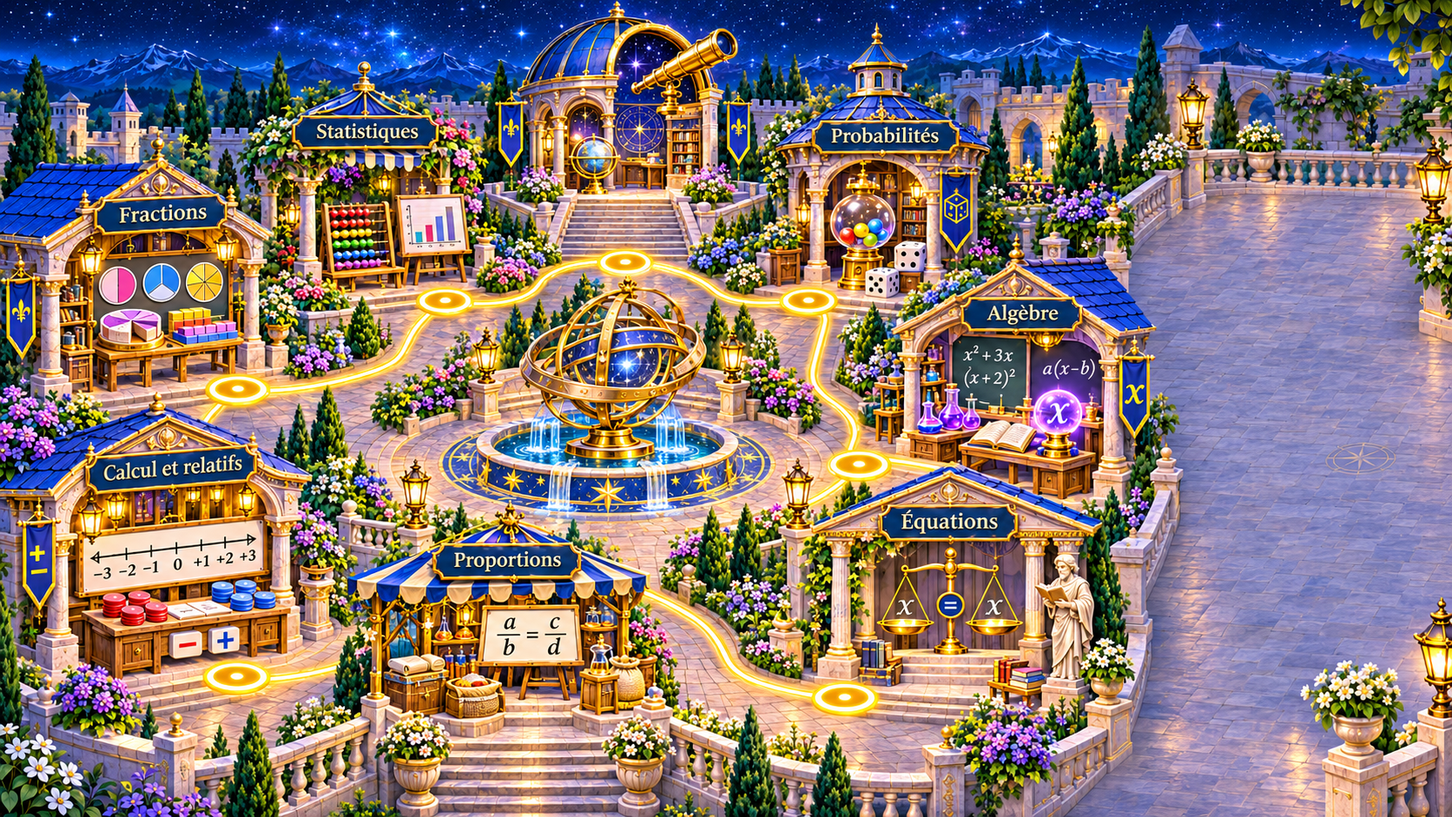
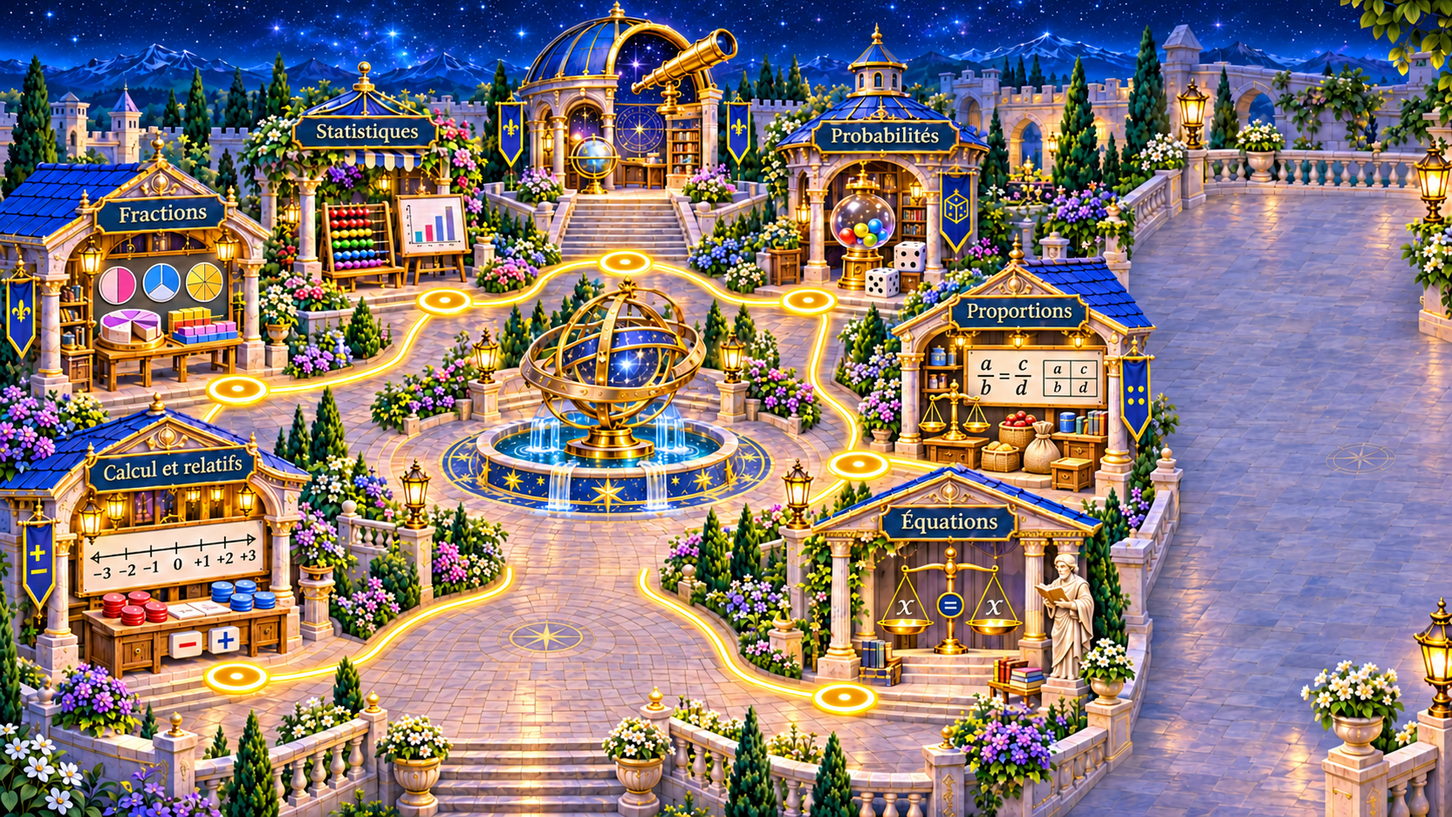
test: probabilités en 5, proportions en 6 et entrée dégagée (v0.3.58-test)

diff --git a/index.html b/index.html
@@ -4,7 +4,7 @@
   <meta charset="utf-8">
   <meta name="viewport" content="width=device-width, initial-scale=1">
   <meta name="theme-color" content="#111d31">
-  <title>Maths Quest — version 0.3.57-test — Bleu royal & or</title>
+  <title>Maths Quest — version 0.3.58-test — Bleu royal & or</title>
   <style>
     :root { font-family:system-ui,sans-serif; background:#101c2d; color:#eee6d4; color-scheme:dark; }
     * { box-sizing:border-box; }
@@ -203,7 +203,7 @@
 
 
     /* ====================================================================
-       v0.3.57-test - Thème retenu : Bleu royal, or et parchemin.
+       v0.3.58-test - Thème retenu : Bleu royal, or et parchemin.
        Toute la logique pédagogique 0.3 reste inchangée.
        ==================================================================== */
     .quiz-screen{
@@ -365,7 +365,7 @@
     @media(prefers-reduced-motion:reduce){.quiz-submit{transition:none}}
 
 
-    /* v0.3.57-test — Cartouche de défi à droite du héros. */
+    /* v0.3.58-test — Cartouche de défi à droite du héros. */
     .arrival{left:50.4%;top:27.7%;width:24.5%;max-width:360px;min-width:0;gap:clamp(3px,.5vw,8px);
       padding:clamp(5px,.72vw,12px);box-shadow:0 9px 23px #071c3bc7;}
     .arrival .arrival-heading{font-size:clamp(10px,.94vw,16px)}
@@ -373,7 +373,7 @@
     .arrival small{font-size:clamp(9px,.8vw,13px)}
     .arrival .arrival-action{font-size:clamp(10px,.95vw,16px);padding:clamp(6px,.65vw,12px)}
 
-    /* v0.3.57-test — Camp d'entrainement de face comme arrière-plan des exercices.
+    /* v0.3.58-test — Camp d'entrainement de face comme arrière-plan des exercices.
        L'interface d'Activités mentales reste indépendante de ce fond illustré. */
     .quiz-screen{
       background-image:linear-gradient(90deg,rgba(7,27,57,.47),rgba(10,34,63,.31) 50%,rgba(7,27,57,.47)),
@@ -417,7 +417,7 @@
 
 
     /* ================================================================
-       v0.3.57-test — adaptation à la HAUTEUR et à la LARGEUR de l'écran.
+       v0.3.58-test — adaptation à la HAUTEUR et à la LARGEUR de l'écran.
        Une question doit tenir dans la zone visible, bouton Valider inclus.
        Le bilan reste défilable car il contient les dix réponses.
        ================================================================ */
@@ -530,7 +530,7 @@
     }
 
 
-    /* v0.3.57-test — Écran de transition « Tables de multiplication ».
+    /* v0.3.58-test — Écran de transition « Tables de multiplication ».
        L'illustration est un décor, les zones actives sont de vrais boutons HTML. */
     .trial-transition[hidden] {display:none!important}
     .trial-transition {position:fixed;inset:0;z-index:55;display:flex;flex-direction:column;
@@ -575,7 +575,7 @@
     @media(min-width:701px){.oath{max-height:59%;overflow:auto}}
     .relative-intro{display:none!important}
     .transition-recap{left:68.1%;top:10.8%;width:20.8%;height:4%;background:#0b2541;font-size:clamp(8px,1.05vw,17px);border:0;box-shadow:none}
-    /* v0.3.57-test — Bilan ajusté à l'écran ; seul le détail des réponses défile. */
+    /* v0.3.58-test — Bilan ajusté à l'écran ; seul le détail des réponses défile. */
     .quiz-content:has(.quiz-results:not([hidden])) {
       display:flex;overflow:hidden;width:min(760px,calc(100% - 24px));
     }
@@ -901,7 +901,7 @@ body:has(dialog[open]) #appFullscreen{visibility:hidden}
 @media(max-width:640px){#appFullscreen{right:8px;bottom:8px;width:34px;height:34px;padding:7px}.brand-version{font-size:clamp(6px,1.5vw,10px)}}
 
 
-/* v0.3.57-test — Progression retirée des images sources, sans plaque de masquage. */
+/* v0.3.58-test — Progression retirée des images sources, sans plaque de masquage. */
 #scene,.transition-viewport{container-type:inline-size}
 .court-quests .court-quest-row{display:none!important}
 .court-quests .trial-groups{display:grid;height:68%;grid-auto-rows:minmax(0,1fr);grid-template-rows:none}
@@ -1092,7 +1092,7 @@ body:has(dialog[open]) #appFullscreen{visibility:hidden}
 <body>
 <svg width="0" height="0" aria-hidden="true" style="position:absolute"><defs><clipPath id="worldHeaderPanels" clipPathUnits="objectBoundingBox"><rect width=".33" height=".15"/><rect x=".39" width=".225" height=".15"/></clipPath></defs></svg>
   <main class="scene-area" id="sceneArea">
-    <div class="scene-viewport" id="scene"><span class="brand-version">v0.3.57-test</span>
+    <div class="scene-viewport" id="scene"><span class="brand-version">v0.3.58-test</span>
       <img class="scene-image" src="assets/carte-sans-progression.png"
         alt="L’Académie des Nombres, trois épreuves reliées par des flèches lumineuses, et l'entrée au premier plan." draggable="false">
       <svg class="route-layer" viewBox="0 0 1660 947" preserveAspectRatio="none" aria-hidden="true" focusable="false">
@@ -1183,7 +1183,7 @@ body:has(dialog[open]) #appFullscreen{visibility:hidden}
           draggable="false">
         <div class="quest-progress transition-progress" role="progressbar" aria-label="Défis validés" aria-valuemin="0" aria-valuemax="3" aria-valuenow="0"><span class="quest-progress-fill"></span></div>
         <span class="transition-recap" id="transitionRecap" aria-live="polite">1 / 3 défis validés ✓</span>
-        <span class="transition-version">Maths Quest · v0.3.57-test</span>
+        <span class="transition-version">Maths Quest · v0.3.58-test</span>
         <aside class="level-one-quests" aria-label="Quêtes du niveau 1"><h2>Quêtes du niveau</h2><div class="trial-groups"><div class="trial-group"><b>1</b><div><span id="transitionQuestLabel0">Calculs entiers</span><strong id="transitionQuestCount0"></strong></div><span id="transitionQuestDone0" class="court-quest-check" aria-label="Groupe en cours">✓</span></div><div class="trial-group"><b>2</b><div><span id="transitionQuestLabel1">Fractions</span><strong id="transitionQuestCount1"></strong></div><span id="transitionQuestDone1" class="court-quest-check" aria-label="Groupe en cours">✓</span></div></div><p>⭐ Obtiens au moins <strong>80 %</strong> de bonnes réponses pour avancer au niveau 2.</p></aside><div class="transition-panel-title">À toi de jouer !</div><div class="transition-choice-buttons"><button id="transitionStart" class="transition-hit transition-start" type="button"
           aria-label="Commencer le défi : Tables de multiplication" title="Commencer le défi"></button>
           <button id="skipCompletedTrial" class="skip-completed" type="button" hidden>Passer</button></div>
@@ -1217,7 +1217,7 @@ body:has(dialog[open]) #appFullscreen{visibility:hidden}
         <span class="quiz-logo" aria-hidden="true"><svg viewBox="0 0 64 68" width="45" height="48" role="presentation"><path d="M32 3 57 12 55 39Q47 55 32 64 17 55 9 39L7 12Z" fill="#173d79" stroke="#f8d38c" stroke-width="3"/><path d="M32 22Q23 14 15 20V43Q25 38 32 45Q39 38 49 43V20Q40 14 32 22Z" fill="#fff3cd" stroke="#d7b36a" stroke-width="2"/><path d="M32 22V45" fill="none" stroke="#aa8246" stroke-width="2"/><path d="M18 25Q25 23 29 27M35 27Q41 23 46 25M18 31Q24 29 29 33M35 33Q41 29 46 31" fill="none" stroke="#a68a5c" stroke-width="1.5"/></svg></span>
         <span><strong>Maths Quest</strong><small>L'Académie des Nombres · Niveau 1</small></span>
       </div>
-      <span class="quiz-stage-label">⚜ Les bases de l'Académie <small>v0.3.57-test</small></span>
+      <span class="quiz-stage-label">⚜ Les bases de l'Académie <small>v0.3.58-test</small></span>
     </header>
     <div class="quiz-content">
       <div id="quizQuestions" class="quiz-questions">
@@ -1281,9 +1281,9 @@ body:has(dialog[open]) #appFullscreen{visibility:hidden}
   </section>
 
 <section id="courtScreen" class="court-screen" hidden aria-label="Niveau 2, La Cour des Savoirs">
-<div id="courtArea" class="court-area"><div id="courtMap" class="court-map"><span class="brand-version">v0.3.57-test</span><img id="courtBackground" class="court-background" src="assets/cour-des-savoirs-sans-progression.png" alt="La Cour des Savoirs : six ateliers autour de la fontaine au cheval." draggable="false"><svg class="court-routes" viewBox="0 0 1616 970" aria-hidden="true"><defs><filter id="courtGlow"><feGaussianBlur stdDeviation="5"/></filter><marker id="courtArrow" viewBox="0 0 24 24" refX="19" refY="12" markerWidth="4.5" markerHeight="4.5" orient="auto"><path d="M2 2 22 12 2 22 7 12Z" fill="#fff7a8" stroke="#ffd52e" stroke-width="2"/></marker></defs><path d="M686.94,834.13 L677,808 L647,757 L615,724 L575,712 L540,724 L513.27,747.39" fill="none" stroke="#ffcf00" stroke-width="16" opacity=".8" filter="url(#courtGlow)"/><path d="M686.94,834.13 L677,808 L647,757 L615,724 L575,712 L540,724 L513.27,747.39" fill="none" stroke="#ffd52a" stroke-width="11"/><path d="M686.94,834.13 L677,808 L647,757 L615,724 L575,712 L540,724 L513.27,747.39" fill="none" stroke="#fff7a8" stroke-width="6"/><path d="M503.67,757.5 L482,785 L438,815 L383,825 L327,822 L303.9,813.34" fill="none" stroke="#ffcf00" stroke-width="16" opacity=".8" filter="url(#courtGlow)"/><path d="M503.67,757.5 L482,785 L438,815 L383,825 L327,822 L303.9,813.34" fill="none" stroke="#ffd52a" stroke-width="11"/><path d="M503.67,757.5 L482,785 L438,815 L383,825 L327,822 L303.9,813.34" fill="none" stroke="#fff7a8" stroke-width="6" marker-end="url(#courtArrow)"/><path d="M295.81,767.81 L322,745 L332,716 L330.44,690.99" fill="none" stroke="#ffcf00" stroke-width="16" opacity=".8" filter="url(#courtGlow)"/><path d="M295.81,767.81 L322,745 L332,716 L330.44,690.99" fill="none" stroke="#ffd52a" stroke-width="11"/><path d="M295.81,767.81 L322,745 L332,716 L330.44,690.99" fill="none" stroke="#fff7a8" stroke-width="6"/><path d="M330.6,677.03 L333,649 L352,609 L361.2,586.33" fill="none" stroke="#ffcf00" stroke-width="16" opacity=".8" filter="url(#courtGlow)"/><path d="M330.6,677.03 L333,649 L352,609 L361.2,586.33" fill="none" stroke="#ffd52a" stroke-width="11"/><path d="M330.6,677.03 L333,649 L352,609 L361.2,586.33" fill="none" stroke="#fff7a8" stroke-width="6" marker-end="url(#courtArrow)"/><path d="M420.83,514.76 L435,506 L477.4,474.2" fill="none" stroke="#ffcf00" stroke-width="16" opacity=".8" filter="url(#courtGlow)"/><path d="M420.83,514.76 L435,506 L477.4,474.2" fill="none" stroke="#ffd52a" stroke-width="11"/><path d="M420.83,514.76 L435,506 L477.4,474.2" fill="none" stroke="#fff7a8" stroke-width="6"/><path d="M487.89,464.99 L519.61,432.42" fill="none" stroke="#ffcf00" stroke-width="16" opacity=".8" filter="url(#courtGlow)"/><path d="M487.89,464.99 L519.61,432.42" fill="none" stroke="#ffd52a" stroke-width="11"/><path d="M487.89,464.99 L519.61,432.42" fill="none" stroke="#fff7a8" stroke-width="6" marker-end="url(#courtArrow)"/><path d="M595.9,381.8 L618,377 L676.14,365.37" fill="none" stroke="#ffcf00" stroke-width="16" opacity=".8" filter="url(#courtGlow)"/><path d="M595.9,381.8 L618,377 L676.14,365.37" fill="none" stroke="#ffd52a" stroke-width="11"/><path d="M595.9,381.8 L618,377 L676.14,365.37" fill="none" stroke="#fff7a8" stroke-width="6"/><path d="M689.86,365.37 L733,374 L739.15,375.34" fill="none" stroke="#ffcf00" stroke-width="16" opacity=".8" filter="url(#courtGlow)"/><path d="M689.86,365.37 L733,374 L739.15,375.34" fill="none" stroke="#ffd52a" stroke-width="11"/><path d="M689.86,365.37 L733,374 L739.15,375.34" fill="none" stroke="#fff7a8" stroke-width="6" marker-end="url(#courtArrow)"/><path d="M821.47,420.4 L824,423 L880.6,448.16" fill="none" stroke="#ffcf00" stroke-width="16" opacity=".8" filter="url(#courtGlow)"/><path d="M821.47,420.4 L824,423 L880.6,448.16" fill="none" stroke="#ffd52a" stroke-width="11"/><path d="M821.47,420.4 L824,423 L880.6,448.16" fill="none" stroke="#fff7a8" stroke-width="6"/><path d="M893.69,453.06 L965,475 L997.75,483.89" fill="none" stroke="#ffcf00" stroke-width="16" opacity=".8" filter="url(#courtGlow)"/><path d="M893.69,453.06 L965,475 L997.75,483.89" fill="none" stroke="#ffd52a" stroke-width="11"/><path d="M893.69,453.06 L965,475 L997.75,483.89" fill="none" stroke="#fff7a8" stroke-width="6" marker-end="url(#courtArrow)"/><path d="M1008.99,527.57 L1000,535 L952,577 L918,630 L910.09,680.09" fill="none" stroke="#ffcf00" stroke-width="16" opacity=".8" filter="url(#courtGlow)"/><path d="M1008.99,527.57 L1000,535 L952,577 L918,630 L910.09,680.09" fill="none" stroke="#ffd52a" stroke-width="11"/><path d="M1008.99,527.57 L1000,535 L952,577 L918,630 L910.09,680.09" fill="none" stroke="#fff7a8" stroke-width="6"/><path d="M914.59,691.22 L962,727 L1044,756 L1105.15,769.34" fill="none" stroke="#ffcf00" stroke-width="16" opacity=".8" filter="url(#courtGlow)"/><path d="M914.59,691.22 L962,727 L1044,756 L1105.15,769.34" fill="none" stroke="#ffd52a" stroke-width="11"/><path d="M914.59,691.22 L962,727 L1044,756 L1105.15,769.34" fill="none" stroke="#fff7a8" stroke-width="6" marker-end="url(#courtArrow)"/><path d="M1193.23,807.66 L1215,823 L1269.31,861.92" fill="none" stroke="#ffcf00" stroke-width="16" opacity=".8" filter="url(#courtGlow)"/><path d="M1193.23,807.66 L1215,823 L1269.31,861.92" fill="none" stroke="#ffd52a" stroke-width="11"/><path d="M1193.23,807.66 L1215,823 L1269.31,861.92" fill="none" stroke="#fff7a8" stroke-width="6"/><path d="M1281.14,869.36 L1339,901 L1383.89,909.6" fill="none" stroke="#ffcf00" stroke-width="16" opacity=".8" filter="url(#courtGlow)"/><path d="M1281.14,869.36 L1339,901 L1383.89,909.6" fill="none" stroke="#ffd52a" stroke-width="11"/><path d="M1281.14,869.36 L1339,901 L1383.89,909.6" fill="none" stroke="#fff7a8" stroke-width="6" marker-end="url(#courtArrow)"/></svg><div class="court-progress-cover"><div id="courtProgress" class="court-progress" role="progressbar" aria-label="Défis validés du niveau 2" aria-valuemin="0" aria-valuemax="6" aria-valuenow="0"><span id="courtProgressFill"></span></div><span id="courtCount">0 / 6 défis validés</span></div><span id="courtDone0" class="court-done" style="top:27%" hidden aria-label="Défi 1 validé">✓</span><span id="courtDone1" class="court-done" style="top:33.3%" hidden aria-label="Défi 2 validé">✓</span><span id="courtDone2" class="court-done" style="top:39.8%" hidden aria-label="Défi 3 validé">✓</span><span id="courtDone3" class="court-done" style="top:46.1%" hidden aria-label="Défi 4 validé">✓</span><span id="courtDone4" class="court-done" style="top:52.36%" hidden aria-label="Défi 5 validé">✓</span><span id="courtDone5" class="court-done" style="top:58.42%" hidden aria-label="Défi 6 validé">✓</span><span id="observatoryGroup0" class="observatory-group-count" style="top:30.6%" hidden>0 / 5</span><span id="observatoryGroupDone0" class="observatory-group-done" style="top:28.7%" hidden>✓</span><span id="observatoryGroup1" class="observatory-group-count" style="top:43.4%" hidden>0 / 2</span><span id="observatoryGroupDone1" class="observatory-group-done" style="top:39.0%" hidden>✓</span><span id="observatoryGroup2" class="observatory-group-count" style="top:54.1%" hidden>0 / 6</span><span id="observatoryGroupDone2" class="observatory-group-done" style="top:50.8%" hidden>✓</span><aside class="level-one-quests world-map-quests" aria-label="Quêtes du niveau"><h2>Quêtes du niveau</h2><div class="trial-groups"><div class="trial-group"><b>1</b><div><span id="worldMapGroupLabel0">Mesures & proportionnalité</span><strong id="worldMapGroupCount0"></strong></div><span id="worldMapGroupDone0" class="court-quest-check" aria-label="Groupe en cours">✓</span></div><div class="trial-group"><b>2</b><div><span id="worldMapGroupLabel1">Statistiques & probabilités</span><strong id="worldMapGroupCount1"></strong></div><span id="worldMapGroupDone1" class="court-quest-check" aria-label="Groupe en cours">✓</span></div><div class="trial-group"><b>3</b><div><span id="worldMapGroupLabel2">Calcul & algèbre</span><strong id="worldMapGroupCount2"></strong></div><span id="worldMapGroupDone2" class="court-quest-check" aria-label="Groupe en cours">✓</span></div><div class="trial-group"><b>4</b><div><span id="worldMapGroupLabel3"></span><strong id="worldMapGroupCount3"></strong></div><span id="worldMapGroupDone3" class="court-quest-check" aria-label="Groupe en cours">✓</span></div></div><p>⭐ Obtiens au moins <strong>80 %</strong> de bonnes réponses pour valider chaque épreuve.</p></aside><img id="courtHero" class="court-hero" alt="Le héros se déplace vers les épreuves." draggable="false"><img id="courtDepthBoard" class="court-depth-board" alt="" aria-hidden="true"></div></div>
+<div id="courtArea" class="court-area"><div id="courtMap" class="court-map"><span class="brand-version">v0.3.58-test</span><img id="courtBackground" class="court-background" src="assets/cour-des-savoirs-sans-progression.png" alt="La Cour des Savoirs : six ateliers autour de la fontaine au cheval." draggable="false"><svg class="court-routes" viewBox="0 0 1616 970" aria-hidden="true"><defs><filter id="courtGlow"><feGaussianBlur stdDeviation="5"/></filter><marker id="courtArrow" viewBox="0 0 24 24" refX="19" refY="12" markerWidth="4.5" markerHeight="4.5" orient="auto"><path d="M2 2 22 12 2 22 7 12Z" fill="#fff7a8" stroke="#ffd52e" stroke-width="2"/></marker></defs><path d="M686.94,834.13 L677,808 L647,757 L615,724 L575,712 L540,724 L513.27,747.39" fill="none" stroke="#ffcf00" stroke-width="16" opacity=".8" filter="url(#courtGlow)"/><path d="M686.94,834.13 L677,808 L647,757 L615,724 L575,712 L540,724 L513.27,747.39" fill="none" stroke="#ffd52a" stroke-width="11"/><path d="M686.94,834.13 L677,808 L647,757 L615,724 L575,712 L540,724 L513.27,747.39" fill="none" stroke="#fff7a8" stroke-width="6"/><path d="M503.67,757.5 L482,785 L438,815 L383,825 L327,822 L303.9,813.34" fill="none" stroke="#ffcf00" stroke-width="16" opacity=".8" filter="url(#courtGlow)"/><path d="M503.67,757.5 L482,785 L438,815 L383,825 L327,822 L303.9,813.34" fill="none" stroke="#ffd52a" stroke-width="11"/><path d="M503.67,757.5 L482,785 L438,815 L383,825 L327,822 L303.9,813.34" fill="none" stroke="#fff7a8" stroke-width="6" marker-end="url(#courtArrow)"/><path d="M295.81,767.81 L322,745 L332,716 L330.44,690.99" fill="none" stroke="#ffcf00" stroke-width="16" opacity=".8" filter="url(#courtGlow)"/><path d="M295.81,767.81 L322,745 L332,716 L330.44,690.99" fill="none" stroke="#ffd52a" stroke-width="11"/><path d="M295.81,767.81 L322,745 L332,716 L330.44,690.99" fill="none" stroke="#fff7a8" stroke-width="6"/><path d="M330.6,677.03 L333,649 L352,609 L361.2,586.33" fill="none" stroke="#ffcf00" stroke-width="16" opacity=".8" filter="url(#courtGlow)"/><path d="M330.6,677.03 L333,649 L352,609 L361.2,586.33" fill="none" stroke="#ffd52a" stroke-width="11"/><path d="M330.6,677.03 L333,649 L352,609 L361.2,586.33" fill="none" stroke="#fff7a8" stroke-width="6" marker-end="url(#courtArrow)"/><path d="M420.83,514.76 L435,506 L477.4,474.2" fill="none" stroke="#ffcf00" stroke-width="16" opacity=".8" filter="url(#courtGlow)"/><path d="M420.83,514.76 L435,506 L477.4,474.2" fill="none" stroke="#ffd52a" stroke-width="11"/><path d="M420.83,514.76 L435,506 L477.4,474.2" fill="none" stroke="#fff7a8" stroke-width="6"/><path d="M487.89,464.99 L519.61,432.42" fill="none" stroke="#ffcf00" stroke-width="16" opacity=".8" filter="url(#courtGlow)"/><path d="M487.89,464.99 L519.61,432.42" fill="none" stroke="#ffd52a" stroke-width="11"/><path d="M487.89,464.99 L519.61,432.42" fill="none" stroke="#fff7a8" stroke-width="6" marker-end="url(#courtArrow)"/><path d="M595.9,381.8 L618,377 L676.14,365.37" fill="none" stroke="#ffcf00" stroke-width="16" opacity=".8" filter="url(#courtGlow)"/><path d="M595.9,381.8 L618,377 L676.14,365.37" fill="none" stroke="#ffd52a" stroke-width="11"/><path d="M595.9,381.8 L618,377 L676.14,365.37" fill="none" stroke="#fff7a8" stroke-width="6"/><path d="M689.86,365.37 L733,374 L739.15,375.34" fill="none" stroke="#ffcf00" stroke-width="16" opacity=".8" filter="url(#courtGlow)"/><path d="M689.86,365.37 L733,374 L739.15,375.34" fill="none" stroke="#ffd52a" stroke-width="11"/><path d="M689.86,365.37 L733,374 L739.15,375.34" fill="none" stroke="#fff7a8" stroke-width="6" marker-end="url(#courtArrow)"/><path d="M821.47,420.4 L824,423 L880.6,448.16" fill="none" stroke="#ffcf00" stroke-width="16" opacity=".8" filter="url(#courtGlow)"/><path d="M821.47,420.4 L824,423 L880.6,448.16" fill="none" stroke="#ffd52a" stroke-width="11"/><path d="M821.47,420.4 L824,423 L880.6,448.16" fill="none" stroke="#fff7a8" stroke-width="6"/><path d="M893.69,453.06 L965,475 L997.75,483.89" fill="none" stroke="#ffcf00" stroke-width="16" opacity=".8" filter="url(#courtGlow)"/><path d="M893.69,453.06 L965,475 L997.75,483.89" fill="none" stroke="#ffd52a" stroke-width="11"/><path d="M893.69,453.06 L965,475 L997.75,483.89" fill="none" stroke="#fff7a8" stroke-width="6" marker-end="url(#courtArrow)"/><path d="M1008.99,527.57 L1000,535 L952,577 L918,630 L910.09,680.09" fill="none" stroke="#ffcf00" stroke-width="16" opacity=".8" filter="url(#courtGlow)"/><path d="M1008.99,527.57 L1000,535 L952,577 L918,630 L910.09,680.09" fill="none" stroke="#ffd52a" stroke-width="11"/><path d="M1008.99,527.57 L1000,535 L952,577 L918,630 L910.09,680.09" fill="none" stroke="#fff7a8" stroke-width="6"/><path d="M914.59,691.22 L962,727 L1044,756 L1105.15,769.34" fill="none" stroke="#ffcf00" stroke-width="16" opacity=".8" filter="url(#courtGlow)"/><path d="M914.59,691.22 L962,727 L1044,756 L1105.15,769.34" fill="none" stroke="#ffd52a" stroke-width="11"/><path d="M914.59,691.22 L962,727 L1044,756 L1105.15,769.34" fill="none" stroke="#fff7a8" stroke-width="6" marker-end="url(#courtArrow)"/><path d="M1193.23,807.66 L1215,823 L1269.31,861.92" fill="none" stroke="#ffcf00" stroke-width="16" opacity=".8" filter="url(#courtGlow)"/><path d="M1193.23,807.66 L1215,823 L1269.31,861.92" fill="none" stroke="#ffd52a" stroke-width="11"/><path d="M1193.23,807.66 L1215,823 L1269.31,861.92" fill="none" stroke="#fff7a8" stroke-width="6"/><path d="M1281.14,869.36 L1339,901 L1383.89,909.6" fill="none" stroke="#ffcf00" stroke-width="16" opacity=".8" filter="url(#courtGlow)"/><path d="M1281.14,869.36 L1339,901 L1383.89,909.6" fill="none" stroke="#ffd52a" stroke-width="11"/><path d="M1281.14,869.36 L1339,901 L1383.89,909.6" fill="none" stroke="#fff7a8" stroke-width="6" marker-end="url(#courtArrow)"/></svg><div class="court-progress-cover"><div id="courtProgress" class="court-progress" role="progressbar" aria-label="Défis validés du niveau 2" aria-valuemin="0" aria-valuemax="6" aria-valuenow="0"><span id="courtProgressFill"></span></div><span id="courtCount">0 / 6 défis validés</span></div><span id="courtDone0" class="court-done" style="top:27%" hidden aria-label="Défi 1 validé">✓</span><span id="courtDone1" class="court-done" style="top:33.3%" hidden aria-label="Défi 2 validé">✓</span><span id="courtDone2" class="court-done" style="top:39.8%" hidden aria-label="Défi 3 validé">✓</span><span id="courtDone3" class="court-done" style="top:46.1%" hidden aria-label="Défi 4 validé">✓</span><span id="courtDone4" class="court-done" style="top:52.36%" hidden aria-label="Défi 5 validé">✓</span><span id="courtDone5" class="court-done" style="top:58.42%" hidden aria-label="Défi 6 validé">✓</span><span id="observatoryGroup0" class="observatory-group-count" style="top:30.6%" hidden>0 / 5</span><span id="observatoryGroupDone0" class="observatory-group-done" style="top:28.7%" hidden>✓</span><span id="observatoryGroup1" class="observatory-group-count" style="top:43.4%" hidden>0 / 2</span><span id="observatoryGroupDone1" class="observatory-group-done" style="top:39.0%" hidden>✓</span><span id="observatoryGroup2" class="observatory-group-count" style="top:54.1%" hidden>0 / 6</span><span id="observatoryGroupDone2" class="observatory-group-done" style="top:50.8%" hidden>✓</span><aside class="level-one-quests world-map-quests" aria-label="Quêtes du niveau"><h2>Quêtes du niveau</h2><div class="trial-groups"><div class="trial-group"><b>1</b><div><span id="worldMapGroupLabel0">Mesures & proportionnalité</span><strong id="worldMapGroupCount0"></strong></div><span id="worldMapGroupDone0" class="court-quest-check" aria-label="Groupe en cours">✓</span></div><div class="trial-group"><b>2</b><div><span id="worldMapGroupLabel1">Statistiques & probabilités</span><strong id="worldMapGroupCount1"></strong></div><span id="worldMapGroupDone1" class="court-quest-check" aria-label="Groupe en cours">✓</span></div><div class="trial-group"><b>3</b><div><span id="worldMapGroupLabel2">Calcul & algèbre</span><strong id="worldMapGroupCount2"></strong></div><span id="worldMapGroupDone2" class="court-quest-check" aria-label="Groupe en cours">✓</span></div><div class="trial-group"><b>4</b><div><span id="worldMapGroupLabel3"></span><strong id="worldMapGroupCount3"></strong></div><span id="worldMapGroupDone3" class="court-quest-check" aria-label="Groupe en cours">✓</span></div></div><p>⭐ Obtiens au moins <strong>80 %</strong> de bonnes réponses pour valider chaque épreuve.</p></aside><img id="courtHero" class="court-hero" alt="Le héros se déplace vers les épreuves." draggable="false"><img id="courtDepthBoard" class="court-depth-board" alt="" aria-hidden="true"></div></div>
 <footer class="court-controls"><p id="courtMessage" role="status" aria-live="polite"></p><div class="court-buttons"><button id="courtAction" type="button">⚔ Commencer le parcours</button><button id="courtFullscreen" type="button">⛶ Plein écran</button><button id="courtZoom" type="button">⌕ Agrandir la carte</button><button id="courtReset" type="button">↻ Retour à l’entrée</button><button id="skipLevelTwo" type="button">Passer au niveau 3 →</button><button id="courtBack" type="button">← Niveau 1</button></div></footer></section>
-<section id="courtTrial" class="court-screen court-trial" hidden aria-label="Entrée de l’épreuve du niveau 2"><div id="courtTrialArea" class="court-area"><div id="courtTrialScene" class="court-trial-scene"><span class="brand-version">v0.3.57-test</span><img id="courtTrialHeader" class="court-ui-header" alt="" aria-hidden="true"><div class="court-world-title"><span id="courtWorldTitle">Niveau 2</span><small id="courtWorldSubtitle">La Cour des Savoirs</small></div><div class="court-trial-progress"><div class="court-progress" role="progressbar" id="courtTrialProgress" aria-label="Défis validés du niveau 2" aria-valuemin="0" aria-valuemax="6" aria-valuenow="0"><span id="courtTrialProgressFill"></span></div><span id="courtTrialCount" class="court-trial-count"></span></div><aside id="courtTrialQuests" class="court-quests" aria-label="Quêtes du niveau"><h2>Quêtes du niveau</h2><div class="trial-groups"><div class="trial-group"><b>1</b><div><span id="trialGroupLabel0">Mesures & proportionnalité</span><strong id="trialGroupCount0"></strong></div><span id="trialGroupDone0" class="court-quest-check" aria-label="Groupe en cours">✓</span></div><div class="trial-group"><b>2</b><div><span id="trialGroupLabel1">Statistiques & probabilités</span><strong id="trialGroupCount1"></strong></div><span id="trialGroupDone1" class="court-quest-check" aria-label="Groupe en cours">✓</span></div><div class="trial-group"><b>3</b><div><span id="trialGroupLabel2">Calcul & algèbre</span><strong id="trialGroupCount2"></strong></div><span id="trialGroupDone2" class="court-quest-check" aria-label="Groupe en cours">✓</span></div><div class="trial-group"><b>4</b><div><span id="trialGroupLabel3"></span><strong id="trialGroupCount3"></strong></div><span id="trialGroupDone3" class="court-quest-check" aria-label="Groupe en cours">✓</span></div></div><div id="worldQuestRow0" class="court-quest-row"><b>1</b><span id="worldQuestLabel0">Conversions de longueurs</span><span id="courtTrialDone0" class="court-quest-check" aria-label="Non validé">✓</span></div><div id="worldQuestRow1" class="court-quest-row"><b>2</b><span id="worldQuestLabel1">Tableaux de proportionnalité</span><span id="courtTrialDone1" class="court-quest-check" aria-label="Non validé">✓</span></div><div id="worldQuestRow2" class="court-quest-row"><b>3</b><span id="worldQuestLabel2">Étendue d’une série</span><span id="courtTrialDone2" class="court-quest-check" aria-label="Non validé">✓</span></div><div id="worldQuestRow3" class="court-quest-row"><b>4</b><span id="worldQuestLabel3">Probabilités</span><span id="courtTrialDone3" class="court-quest-check" aria-label="Non validé">✓</span></div><div id="worldQuestRow4" class="court-quest-row"><b>5</b><span id="worldQuestLabel4">Calcul d’expressions</span><span id="courtTrialDone4" class="court-quest-check" aria-label="Non validé">✓</span></div><div id="worldQuestRow5" class="court-quest-row"><b>6</b><span id="worldQuestLabel5">Équations</span><span id="courtTrialDone5" class="court-quest-check" aria-label="Non validé">✓</span></div><div id="worldQuestRow6" class="court-quest-row" hidden><b>7</b><span id="worldQuestLabel6"></span><span id="courtTrialDone6" class="court-quest-check" aria-label="Non validé">✓</span></div><div id="worldQuestRow7" class="court-quest-row" hidden><b>8</b><span id="worldQuestLabel7"></span><span id="courtTrialDone7" class="court-quest-check" aria-label="Non validé">✓</span></div><div id="worldQuestRow8" class="court-quest-row" hidden><b>9</b><span id="worldQuestLabel8"></span><span id="courtTrialDone8" class="court-quest-check" aria-label="Non validé">✓</span></div><div id="worldQuestRow9" class="court-quest-row" hidden><b>10</b><span id="worldQuestLabel9"></span><span id="courtTrialDone9" class="court-quest-check" aria-label="Non validé">✓</span></div><div id="worldQuestRow10" class="court-quest-row" hidden><b>11</b><span id="worldQuestLabel10"></span><span id="courtTrialDone10" class="court-quest-check" aria-label="Non validé">✓</span></div><div id="worldQuestRow11" class="court-quest-row" hidden><b>12</b><span id="worldQuestLabel11"></span><span id="courtTrialDone11" class="court-quest-check" aria-label="Non validé">✓</span></div><div id="worldQuestRow12" class="court-quest-row" hidden><b>13</b><span id="worldQuestLabel12"></span><span id="courtTrialDone12" class="court-quest-check" aria-label="Non validé">✓</span></div><p class="court-goal">⭐ Obtiens au moins<br><strong>80 %</strong> de bonnes réponses<br>pour avancer au niveau <span id="courtGoalLevel">3</span>.</p></aside><img id="courtTrialArt" class="court-trial-art" alt="Vue de face de l’atelier" draggable="false"><div class="court-trial-caption"><span id="courtTrialNumber" class="court-station-number"></span><span id="courtTrialPlace"></span></div><div id="courtTrialRing" hidden aria-hidden="true"></div><img id="courtTrialHero" class="court-trial-hero" alt="Le héros regarde l’atelier." draggable="false"><div class="court-panel"><span id="courtTrialOrder" class="court-order"></span><h1 id="courtTrialTitle"></h1><div class="court-line"></div><p id="courtTrialRule" class="court-rule"></p><p>🎯 10 questions</p><p id="courtTrialTime"></p><p class="court-threshold">⭐ 8 bonnes réponses pour continuer</p><div class="court-line"></div><div class="court-actions"><button id="courtTrialStart" type="button">▶ Commencer le défi</button><button id="courtTrialPass" type="button" hidden>Passer</button></div></div><footer class="court-transition-tools"><button id="courtTrialBack" type="button">← Retour à la carte</button><button id="courtTrialFullscreen" type="button">⛶ Plein écran</button><button id="courtTrialZoom" type="button">⌕ Agrandir la carte</button><button id="courtTrialReplay" type="button">↻ Rejouer le trajet</button><span class="court-version">Maths Quest · v0.3.57-test</span></footer></div></div></section>
+<section id="courtTrial" class="court-screen court-trial" hidden aria-label="Entrée de l’épreuve du niveau 2"><div id="courtTrialArea" class="court-area"><div id="courtTrialScene" class="court-trial-scene"><span class="brand-version">v0.3.58-test</span><img id="courtTrialHeader" class="court-ui-header" alt="" aria-hidden="true"><div class="court-world-title"><span id="courtWorldTitle">Niveau 2</span><small id="courtWorldSubtitle">La Cour des Savoirs</small></div><div class="court-trial-progress"><div class="court-progress" role="progressbar" id="courtTrialProgress" aria-label="Défis validés du niveau 2" aria-valuemin="0" aria-valuemax="6" aria-valuenow="0"><span id="courtTrialProgressFill"></span></div><span id="courtTrialCount" class="court-trial-count"></span></div><aside id="courtTrialQuests" class="court-quests" aria-label="Quêtes du niveau"><h2>Quêtes du niveau</h2><div class="trial-groups"><div class="trial-group"><b>1</b><div><span id="trialGroupLabel0">Mesures & proportionnalité</span><strong id="trialGroupCount0"></strong></div><span id="trialGroupDone0" class="court-quest-check" aria-label="Groupe en cours">✓</span></div><div class="trial-group"><b>2</b><div><span id="trialGroupLabel1">Statistiques & probabilités</span><strong id="trialGroupCount1"></strong></div><span id="trialGroupDone1" class="court-quest-check" aria-label="Groupe en cours">✓</span></div><div class="trial-group"><b>3</b><div><span id="trialGroupLabel2">Calcul & algèbre</span><strong id="trialGroupCount2"></strong></div><span id="trialGroupDone2" class="court-quest-check" aria-label="Groupe en cours">✓</span></div><div class="trial-group"><b>4</b><div><span id="trialGroupLabel3"></span><strong id="trialGroupCount3"></strong></div><span id="trialGroupDone3" class="court-quest-check" aria-label="Groupe en cours">✓</span></div></div><div id="worldQuestRow0" class="court-quest-row"><b>1</b><span id="worldQuestLabel0">Conversions de longueurs</span><span id="courtTrialDone0" class="court-quest-check" aria-label="Non validé">✓</span></div><div id="worldQuestRow1" class="court-quest-row"><b>2</b><span id="worldQuestLabel1">Tableaux de proportionnalité</span><span id="courtTrialDone1" class="court-quest-check" aria-label="Non validé">✓</span></div><div id="worldQuestRow2" class="court-quest-row"><b>3</b><span id="worldQuestLabel2">Étendue d’une série</span><span id="courtTrialDone2" class="court-quest-check" aria-label="Non validé">✓</span></div><div id="worldQuestRow3" class="court-quest-row"><b>4</b><span id="worldQuestLabel3">Probabilités</span><span id="courtTrialDone3" class="court-quest-check" aria-label="Non validé">✓</span></div><div id="worldQuestRow4" class="court-quest-row"><b>5</b><span id="worldQuestLabel4">Calcul d’expressions</span><span id="courtTrialDone4" class="court-quest-check" aria-label="Non validé">✓</span></div><div id="worldQuestRow5" class="court-quest-row"><b>6</b><span id="worldQuestLabel5">Équations</span><span id="courtTrialDone5" class="court-quest-check" aria-label="Non validé">✓</span></div><div id="worldQuestRow6" class="court-quest-row" hidden><b>7</b><span id="worldQuestLabel6"></span><span id="courtTrialDone6" class="court-quest-check" aria-label="Non validé">✓</span></div><div id="worldQuestRow7" class="court-quest-row" hidden><b>8</b><span id="worldQuestLabel7"></span><span id="courtTrialDone7" class="court-quest-check" aria-label="Non validé">✓</span></div><div id="worldQuestRow8" class="court-quest-row" hidden><b>9</b><span id="worldQuestLabel8"></span><span id="courtTrialDone8" class="court-quest-check" aria-label="Non validé">✓</span></div><div id="worldQuestRow9" class="court-quest-row" hidden><b>10</b><span id="worldQuestLabel9"></span><span id="courtTrialDone9" class="court-quest-check" aria-label="Non validé">✓</span></div><div id="worldQuestRow10" class="court-quest-row" hidden><b>11</b><span id="worldQuestLabel10"></span><span id="courtTrialDone10" class="court-quest-check" aria-label="Non validé">✓</span></div><div id="worldQuestRow11" class="court-quest-row" hidden><b>12</b><span id="worldQuestLabel11"></span><span id="courtTrialDone11" class="court-quest-check" aria-label="Non validé">✓</span></div><div id="worldQuestRow12" class="court-quest-row" hidden><b>13</b><span id="worldQuestLabel12"></span><span id="courtTrialDone12" class="court-quest-check" aria-label="Non validé">✓</span></div><p class="court-goal">⭐ Obtiens au moins<br><strong>80 %</strong> de bonnes réponses<br>pour avancer au niveau <span id="courtGoalLevel">3</span>.</p></aside><img id="courtTrialArt" class="court-trial-art" alt="Vue de face de l’atelier" draggable="false"><div class="court-trial-caption"><span id="courtTrialNumber" class="court-station-number"></span><span id="courtTrialPlace"></span></div><div id="courtTrialRing" hidden aria-hidden="true"></div><img id="courtTrialHero" class="court-trial-hero" alt="Le héros regarde l’atelier." draggable="false"><div class="court-panel"><span id="courtTrialOrder" class="court-order"></span><h1 id="courtTrialTitle"></h1><div class="court-line"></div><p id="courtTrialRule" class="court-rule"></p><p>🎯 10 questions</p><p id="courtTrialTime"></p><p class="court-threshold">⭐ 8 bonnes réponses pour continuer</p><div class="court-line"></div><div class="court-actions"><button id="courtTrialStart" type="button">▶ Commencer le défi</button><button id="courtTrialPass" type="button" hidden>Passer</button></div></div><footer class="court-transition-tools"><button id="courtTrialBack" type="button">← Retour à la carte</button><button id="courtTrialFullscreen" type="button">⛶ Plein écran</button><button id="courtTrialZoom" type="button">⌕ Agrandir la carte</button><button id="courtTrialReplay" type="button">↻ Rejouer le trajet</button><span class="court-version">Maths Quest · v0.3.58-test</span></footer></div></div></section>
 <div id="courtComplete" class="court-complete" hidden role="dialog" aria-modal="true" aria-labelledby="courtCompleteTitle"><div class="court-victory-card"><div id="courtVictoryScene" class="court-victory-scene"><img id="courtVictoryBackdrop" class="court-victory-backdrop" alt="La dernière porte de la Cour des Savoirs."><h2 id="courtCompleteTitle" class="court-victory-title">🏆 Niveau 2 terminé !<small>La Cour des Savoirs</small></h2><div class="court-victory-aura" aria-hidden="true"></div><div class="court-victory-walker"><img id="courtVictoryHero" alt="Le héros avance vers la porte puis s’arrête."></div><span class="court-victory-spark" aria-hidden="true" style="--sx:64%;--sy:57%;--delay:0.0s">✦</span><span class="court-victory-spark" aria-hidden="true" style="--sx:70%;--sy:50%;--delay:0.08s">✦</span><span class="court-victory-spark" aria-hidden="true" style="--sx:76%;--sy:45%;--delay:0.16s">✦</span><span class="court-victory-spark" aria-hidden="true" style="--sx:83%;--sy:53%;--delay:0.24s">✦</span><span class="court-victory-spark" aria-hidden="true" style="--sx:91%;--sy:60%;--delay:0.32s">✦</span><span class="court-victory-spark" aria-hidden="true" style="--sx:86%;--sy:72%;--delay:0.4s">✦</span><span class="court-victory-spark" aria-hidden="true" style="--sx:68%;--sy:75%;--delay:0.48s">✦</span><span class="court-victory-spark" aria-hidden="true" style="--sx:78%;--sy:68%;--delay:0.56s">✦</span><span class="court-victory-spark" aria-hidden="true" style="--sx:58%;--sy:65%;--delay:0.64s">✦</span><span class="court-victory-spark" aria-hidden="true" style="--sx:94%;--sy:43%;--delay:0.72s">✦</span><span class="court-victory-spark" aria-hidden="true" style="--sx:55%;--sy:43%;--delay:0.8s">✦</span><span class="court-victory-spark" aria-hidden="true" style="--sx:88%;--sy:36%;--delay:0.88s">✦</span></div><div class="court-victory-footer"><p id="courtVictoryStatus" role="status" aria-live="polite">Six épreuves remportées !</p><p id="courtVictoryNext" class="court-victory-next">La prochaine aventure sera ajoutée au-delà de cette porte.</p><button id="observatoryContinue" type="button">Rejoindre l’Observatoire royal →</button><button id="enterLevelFour" type="button" hidden>Entrer dans la Forge des Nombres — Niveau 4 →</button><button id="courtVictoryReplay" type="button">↻ Revoir l’animation</button><button id="courtCompleteClose" type="button">Revenir à la cour</button></div></div></div>
 <template id="courtArts"><img src="assets/atelier-1.png" alt="Atelier 1"><img src="assets/atelier-2.png" alt="Atelier 2"><img src="assets/atelier-3.png" alt="Atelier 3"><img src="assets/atelier-4.png" alt="Atelier 4"><img src="assets/atelier-5.png" alt="Atelier 5"><img src="assets/atelier-6.png" alt="Atelier 6"></template>
 <aside id="calculatorDrawer" class="calculator-drawer" hidden aria-labelledby="calculatorTitle"><div class="calculator-heading"><h2 id="calculatorTitle">Calculatrice</h2><button id="calculatorClose" type="button" aria-label="Fermer la calculatrice">×</button></div><label class="sr-only" for="calculatorDisplay">Calcul et résultat</label><input id="calculatorDisplay" class="calculator-display" type="text" readonly value="0" aria-describedby="calculatorStatus" autocomplete="off"><div class="calculator-keys"><button id="calculatorKey0" type="button" aria-label="Effacer tout">C</button><button id="calculatorKey1" type="button" aria-label="Effacer le dernier caractère">⌫</button><button id="calculatorKey2" type="button">(</button><button id="calculatorKey3" type="button">)</button><button id="calculatorKey4" type="button">7</button><button id="calculatorKey5" type="button">8</button><button id="calculatorKey6" type="button">9</button><button id="calculatorKey7" type="button" class="calc-operator">÷</button><button id="calculatorKey8" type="button">4</button><button id="calculatorKey9" type="button">5</button><button id="calculatorKey10" type="button">6</button><button id="calculatorKey11" type="button" class="calc-operator">×</button><button id="calculatorKey12" type="button">1</button><button id="calculatorKey13" type="button">2</button><button id="calculatorKey14" type="button">3</button><button id="calculatorKey15" type="button" class="calc-operator">−</button><button id="calculatorKey16" type="button">0</button><button id="calculatorKey17" type="button">,</button><button id="calculatorKey18" type="button" class="calc-equals">=</button><button id="calculatorKey19" type="button" class="calc-operator">+</button></div><button id="calculatorCopy" class="calculator-copy" type="button" disabled>Reporter le résultat</button><p id="calculatorStatus" class="calculator-status" role="status" aria-live="polite"></p><p><span id="calculatorHint">Étendue = maximum − minimum.</span><br>Le temps continue de s’écouler.</p></aside>
@@ -2067,7 +2067,7 @@ function generateRelatives(level){
       questionTime=currentStage>=5?courtModule().time*1000:currentStage===3?30000:10000;questionIndex=0;correct=0;answers=[];totalSpentMs=0;
       const title=stageTitles[currentStage];
       document.querySelector('.quiz-brand small').textContent="L’Académie des Nombres · Niveau "+(currentStage>=19?'4':currentStage>=12?'3':currentStage>=5?'2':'1');
-      document.querySelector('.quiz-stage-label').innerHTML=(currentStage>=19?'⚜ La Forge des Nombres':currentStage>=12?'⚜ L’Observatoire royal':currentStage>=5?'⚜ La Cour des Savoirs':'⚜ Les bases de l’Académie')+' <small>v0.3.57-test</small>';
+      document.querySelector('.quiz-stage-label').innerHTML=(currentStage>=19?'⚜ La Forge des Nombres':currentStage>=12?'⚜ L’Observatoire royal':currentStage>=5?'⚜ La Cour des Savoirs':'⚜ Les bases de l’Académie')+' <small>v0.3.58-test</small>';
       quizScreen.classList.toggle('fractions-quiz',currentStage===3);quizScreen.classList.toggle('level2-quiz',currentStage>=5);
       document.querySelector('.quiz-tip').textContent=currentStage===3?'Trouve le numérateur manquant · 8 bonnes réponses pour rejoindre le pont.':'⚜ Obtiens au moins 8 bonnes réponses pour ouvrir la voie suivante.';
       document.querySelector('.quiz-title-wrap strong').textContent=title;
@@ -2532,7 +2532,7 @@ eq_niv7:{group:'Équations',color:'#2563eb',icon:'=',title:'Équations — Nivea
     };
     // Le niveau 3 conserve 7 défis ; les 6 suivants deviennent le niveau 4.
     // Les IDs de sauvegarde « niveau3-<module> » restent identiques.
-    const order3A=['mult10','mult_rel','arrondir','moyenne','tableau_prop2','probas_des','eq_niv2'];
+    const order3A=['mult10','mult_rel','arrondir','moyenne','probas_des','tableau_prop2','eq_niv2'];
     const order3B=['carre','conversions2','angles','pct_variation','reductions','eq_niv7'];
     function observatoryPartConfig(keys,first,last){
       return {
@@ -2551,16 +2551,16 @@ eq_niv7:{group:'Équations',color:'#2563eb',icon:'=',title:'Équations — Nivea
     // Sept haltes sur les cercles dorés, toutes à gauche du parchemin.
     const observatorySevenStops=[
       [560,915],[272,780],[272,450],[512,346],
-      [720,302],[570,875],[930,347],[973,806],[1215,865]
+      [720,302],[930,347],[990,535],[973,806],[1215,865]
     ];
     const observatorySevenRoutes=[
       [[560,915],[540,875],[482,846],[406,824],[335,804],[272,780]],
       [[272,780],[336,758],[399,718],[422,651],[406,582],[350,505],[272,450]],
       [[272,450],[370,441],[438,421],[472,379],[512,346]],
       [[512,346],[585,349],[638,333],[678,309],[720,302]],
-      [[720,302],[787,306],[885,345],[930,347],[950,389],[940,436],[939,481],[990,535],[930,572],[879,605],[856,651],[800,750],[780,850],[680,900],[570,875]],
-      [[570,875],[680,900],[780,850],[800,750],[856,651],[879,605],[930,572],[990,535],[960,518],[939,481],[940,436],[950,389],[930,347]],
-      [[930,347],[950,389],[940,436],[939,481],[960,518],[990,535],[930,572],[879,605],[856,651],[867,704],[900,756],[973,806]],
+      [[720,302],[787,306],[838,331],[885,345],[930,347]],
+      [[930,347],[950,389],[940,436],[939,481],[960,518],[990,535]],
+      [[990,535],[930,572],[879,605],[856,651],[867,704],[900,756],[973,806]],
       [[973,806],[1052,823],[1133,844],[1215,865]]
     ];
     const worldThreeA={
